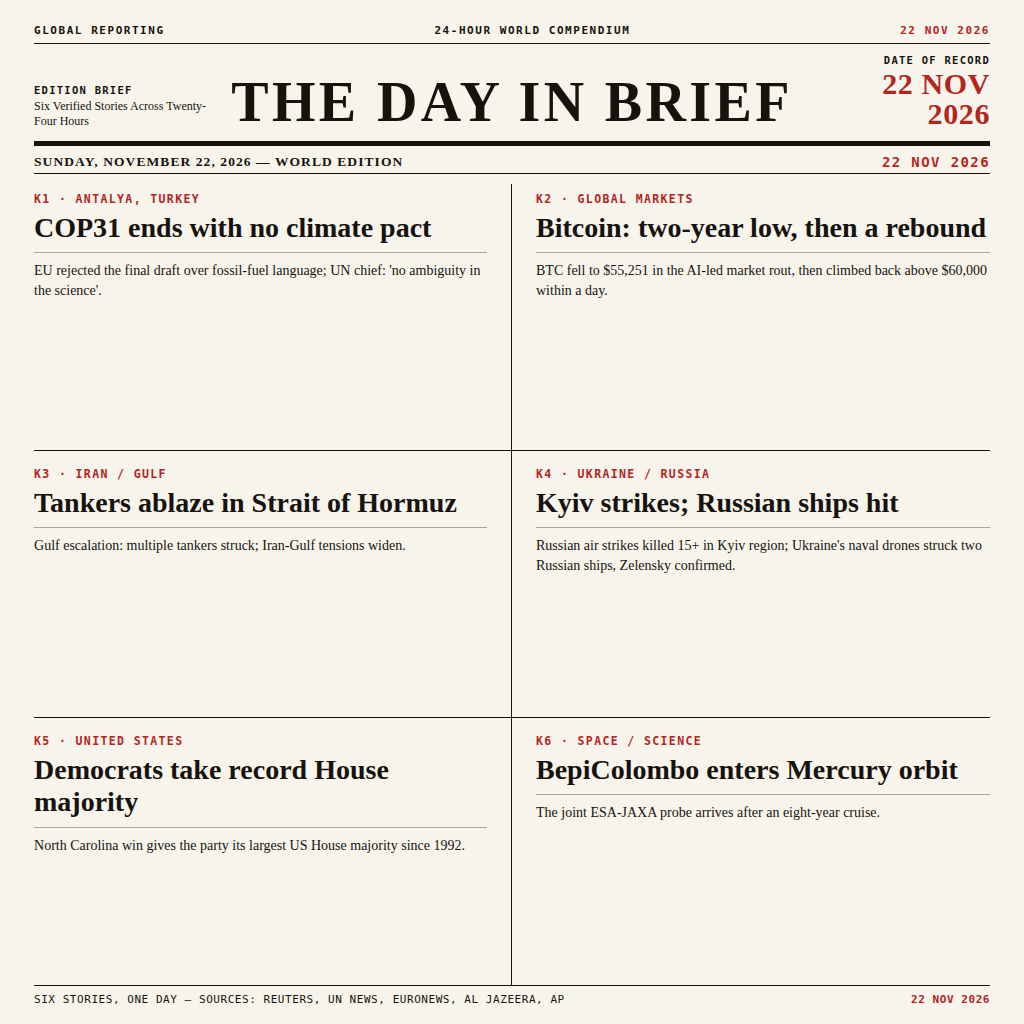
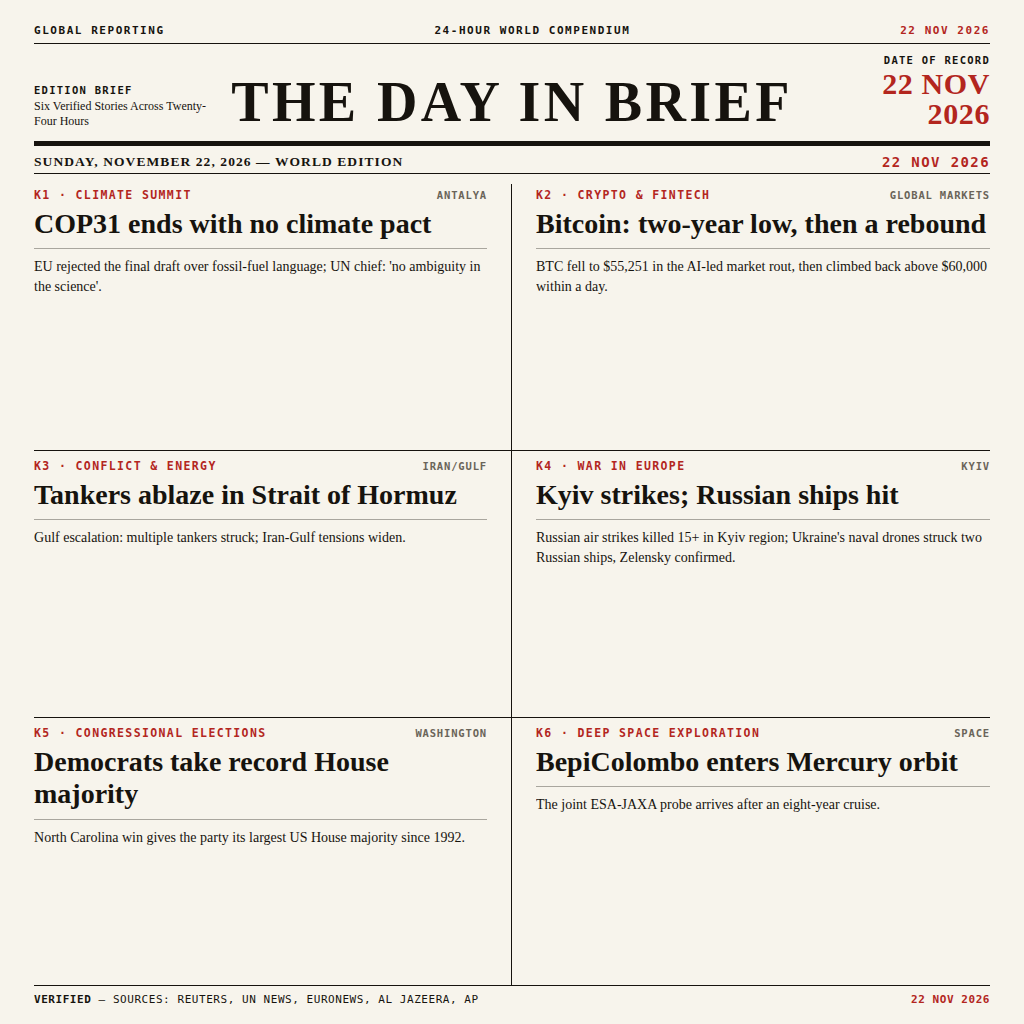
Poster v2: location tags, tightened spacing, verified footer, verbose copy

diff --git a/poster.html b/poster.html
@@ -144,18 +144,24 @@
       padding-left: 24px;
     }
     .row-top {
-      padding-top: 8px;
-      padding-bottom: 16px;
+      padding-top: 4px;
+      padding-bottom: 8px;
       border-bottom: 1px solid #16130e;
     }
     .row-mid {
-      padding-top: 16px;
-      padding-bottom: 16px;
+      padding-top: 8px;
+      padding-bottom: 8px;
       border-bottom: 1px solid #16130e;
     }
     .row-bot {
-      padding-top: 16px;
-      padding-bottom: 6px;
+      padding-top: 8px;
+      padding-bottom: 4px;
+    }
+    .kicker-row {
+      display: flex;
+      justify-content: space-between;
+      align-items: baseline;
+      margin-bottom: 6px;
     }
     .kicker {
       font-family: ui-monospace, SFMono-Regular, Menlo, Monaco, Consolas, monospace;
@@ -164,7 +170,15 @@
       letter-spacing: 0.12em;
       text-transform: uppercase;
       color: #b3261e;
-      margin-bottom: 6px;
+    }
+    .location-tag {
+      font-family: ui-monospace, SFMono-Regular, Menlo, Monaco, Consolas, monospace;
+      font-size: 10.5px;
+      font-weight: 600;
+      letter-spacing: 0.08em;
+      text-transform: uppercase;
+      color: #6a6459;
+      text-align: right;
     }
     .headline {
       font-family: Georgia, 'Times New Roman', serif;
@@ -185,6 +199,11 @@
       font-size: 14px;
       line-height: 1.38;
       color: #16130e;
+      display: -webkit-box;
+      -webkit-line-clamp: 2;
+      -webkit-box-orient: vertical;
+      overflow: hidden;
+      max-height: 2.76em;
     }
     .subhead::first-letter {
       text-transform: uppercase;
@@ -243,42 +262,60 @@
 
   <main class="grid">
     <article class="card col-left row-top">
-      <div class="kicker">K1 · ANTALYA, TURKEY</div>
+      <div class="kicker-row">
+        <span class="kicker">K1 · CLIMATE SUMMIT</span>
+        <span class="location-tag">ANTALYA</span>
+      </div>
       <h2 class="headline">COP31 ends with no climate pact</h2>
       <div class="card-rule"></div>
       <p class="subhead">EU rejected the final draft over fossil-fuel language; UN chief: 'no ambiguity in the science'.</p>
     </article>
 
     <article class="card col-right row-top">
-      <div class="kicker">K2 · GLOBAL MARKETS</div>
+      <div class="kicker-row">
+        <span class="kicker">K2 · CRYPTO & FINTECH</span>
+        <span class="location-tag">GLOBAL MARKETS</span>
+      </div>
       <h2 class="headline">Bitcoin: two-year low, then a rebound</h2>
       <div class="card-rule"></div>
       <p class="subhead">BTC fell to $55,251 in the AI-led market rout, then climbed back above $60,000 within a day.</p>
     </article>
 
     <article class="card col-left row-mid">
-      <div class="kicker">K3 · IRAN / GULF</div>
+      <div class="kicker-row">
+        <span class="kicker">K3 · CONFLICT & ENERGY</span>
+        <span class="location-tag">IRAN/GULF</span>
+      </div>
       <h2 class="headline">Tankers ablaze in Strait of Hormuz</h2>
       <div class="card-rule"></div>
       <p class="subhead">Gulf escalation: multiple tankers struck; Iran-Gulf tensions widen.</p>
     </article>
 
     <article class="card col-right row-mid">
-      <div class="kicker">K4 · UKRAINE / RUSSIA</div>
+      <div class="kicker-row">
+        <span class="kicker">K4 · WAR IN EUROPE</span>
+        <span class="location-tag">KYIV</span>
+      </div>
       <h2 class="headline">Kyiv strikes; Russian ships hit</h2>
       <div class="card-rule"></div>
       <p class="subhead">Russian air strikes killed 15+ in Kyiv region; Ukraine's naval drones struck two Russian ships, Zelensky confirmed.</p>
     </article>
 
     <article class="card col-left row-bot">
-      <div class="kicker">K5 · UNITED STATES</div>
+      <div class="kicker-row">
+        <span class="kicker">K5 · CONGRESSIONAL ELECTIONS</span>
+        <span class="location-tag">WASHINGTON</span>
+      </div>
       <h2 class="headline">Democrats take record House majority</h2>
       <div class="card-rule"></div>
       <p class="subhead">North Carolina win gives the party its largest US House majority since 1992.</p>
     </article>
 
     <article class="card col-right row-bot">
-      <div class="kicker">K6 · SPACE / SCIENCE</div>
+      <div class="kicker-row">
+        <span class="kicker">K6 · DEEP SPACE EXPLORATION</span>
+        <span class="location-tag">SPACE</span>
+      </div>
       <h2 class="headline">BepiColombo enters Mercury orbit</h2>
       <div class="card-rule"></div>
       <p class="subhead">the joint ESA-JAXA probe arrives after an eight-year cruise.</p>
@@ -287,7 +324,7 @@
 
   <footer class="footer-strip">
     <div class="footer-content">
-      <span>six stories, one day — sources: Reuters, UN News, Euronews, Al Jazeera, AP</span>
+      <span><strong>VERIFIED</strong> — sources: Reuters, UN News, Euronews, Al Jazeera, AP</span>
       <span class="bold-date">22 NOV 2026</span>
     </div>
   </footer>

diff --git a/main.py b/main.py
@@ -8,10 +8,14 @@ dst = "/output/entry.png"
 try:
     os.makedirs(os.path.dirname(dst), exist_ok=True)
     shutil.copy2(src, dst)
+    print(f"Copied to: {dst} ({os.path.getsize(dst)} bytes)")
 except Exception:
     try:
         os.makedirs(os.path.dirname(dst), exist_ok=True)
         with open(src, "rb") as f_in, open(dst, "wb") as f_out:
             shutil.copyfileobj(f_in, f_out)
+        print(f"Copied to: {dst} ({os.path.getsize(dst)} bytes)")
     except Exception:
         shutil.copyfile(src, dst)
+        print(f"Copied to: {dst} ({os.path.getsize(dst)} bytes)")
+
